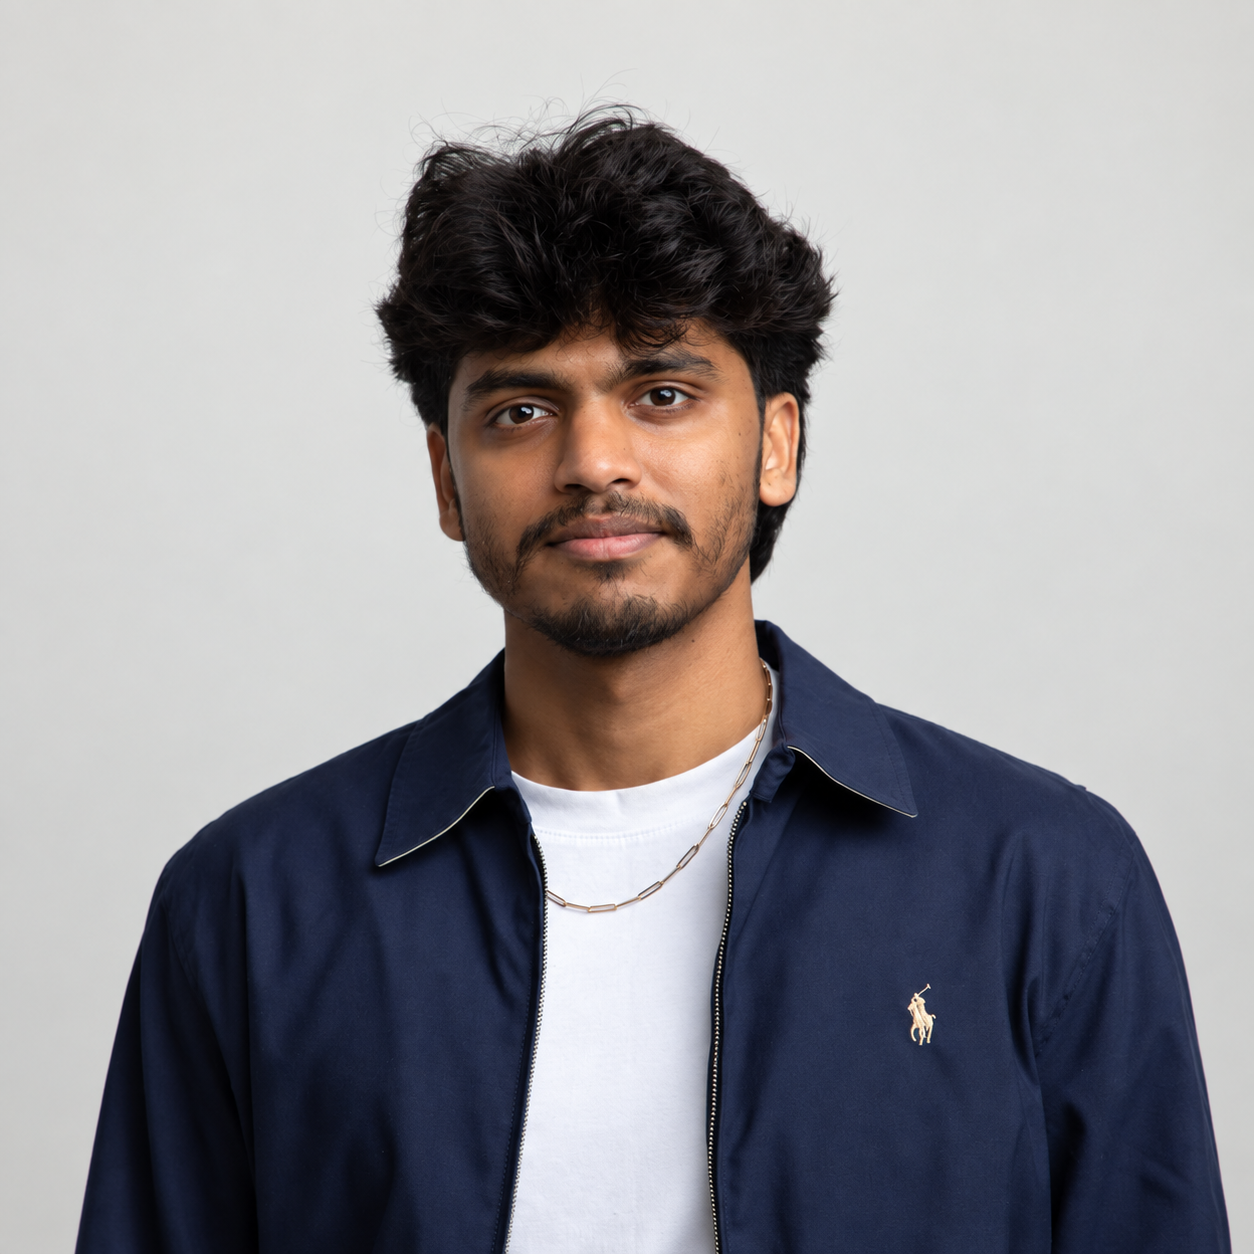
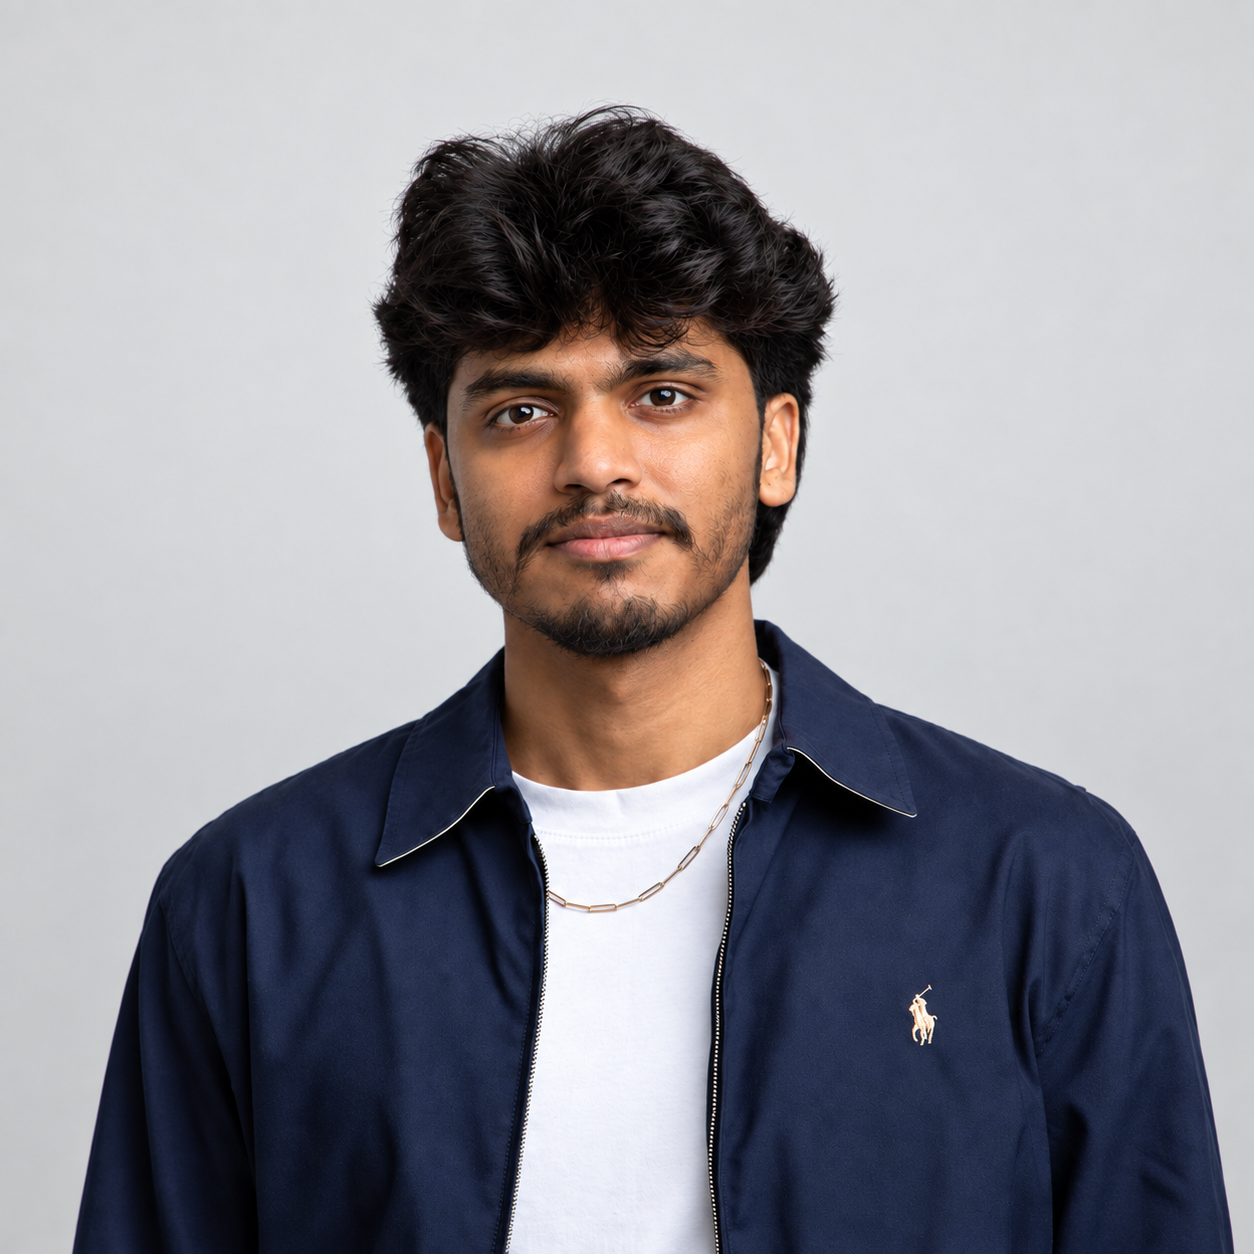
Refine intro, navigation, and studio portrait

diff --git a/index.html b/index.html
@@ -1,7 +1,7 @@
 <!doctype html>
 <html lang="en"><head><meta charset="utf-8"><meta name="viewport" content="width=device-width, initial-scale=1"><meta name="description" content="Manvith Reddy Dalli’s portfolio: enterprise automation, applied AI, data engineering, and software projects. Explore project summaries, technologies, and GitHub repositories."><meta name="theme-color" content="#111713"><title>Manvith Reddy Dalli | Automation, AI & Data Engineering</title><link rel="icon" type="image/svg+xml" href="favicon.svg"><link rel="stylesheet" href="style.css"></head>
-<body><a class="skip" href="#projects">Skip to projects</a><div class="wrap"><header><a class="brand" href="#" aria-label="Manvith home">MD<span>.</span></a><nav aria-label="Main navigation"><a href="#citizens">Citizens</a><a href="#projects">Projects</a><a href="#about">About</a><a href="#contact">Contact</a></nav></header>
-<main><section class="hero" aria-labelledby="name"><div><p class="eyebrow">Automation, AI & Data Engineering · Boston, MA</p><h1 id="name">Manvith<br><span>Reddy Dalli.</span></h1><p class="intro">I build data pipelines, explore machine learning, and turn research into working software.</p><a class="button" href="#projects">Explore my projects <span aria-hidden="true">↓</span></a></div><div class="hero-side"><img class="portrait" src="portrait.png" width="1254" height="1254" alt="Professional portrait of Manvith Reddy Dalli"><p>My work spans enterprise automation, data engineering, and applied AI—from streamlining banking workflows at Citizens to building options risk analytics and generative models.</p><div class="links"><a href="https://github.com/Manvith-d" target="_blank" rel="noopener noreferrer">GitHub ↗</a><a href="https://www.linkedin.com/in/manvith-reddy-dalli-38a06a257" target="_blank" rel="noopener noreferrer">LinkedIn ↗</a><a href="resume.pdf" target="_blank" rel="noopener">Résumé ↗</a></div></div></section>
+<body><a class="skip" href="#projects">Skip to projects</a><div class="wrap"><header><a class="brand" href="#" aria-label="Manvith home">MD<span>.</span></a><nav aria-label="Main navigation"><a href="#projects">Projects</a><a href="#about">About</a><a href="#contact">Contact</a></nav></header>
+<main><section class="hero" aria-labelledby="name"><div><p class="eyebrow">Automation, AI & Data Engineering · Boston, MA</p><h1 id="name">Manvith<br><span>Reddy Dalli.</span></h1><p class="intro">Northeastern University — M.S. in Information Systems</p><a class="button" href="#projects">Explore my projects <span aria-hidden="true">↓</span></a></div><div class="hero-side"><img class="portrait" src="portrait.png" width="1254" height="1254" alt="Professional portrait of Manvith Reddy Dalli"><p>My work spans enterprise automation, data engineering, and applied AI—from streamlining banking workflows at Citizens to building options risk analytics and generative models.</p><div class="links"><a href="https://github.com/Manvith-d" target="_blank" rel="noopener noreferrer">GitHub ↗</a><a href="https://www.linkedin.com/in/manvith-reddy-dalli-38a06a257" target="_blank" rel="noopener noreferrer">LinkedIn ↗</a><a href="resume.pdf" target="_blank" rel="noopener">Résumé ↗</a></div></div></section>
 <div class="strip"><span><strong>Northeastern University</strong> · M.S. Information Systems</span><span>Boston, Massachusetts</span></div>
 <section id="citizens" class="citizens" aria-labelledby="citizens-title"><div class="section-head"><div><p class="eyebrow">Citizens Bank · 2026 Co-op</p><h2 id="citizens-title">Banking workflows.<br>Real business value.</h2></div><p>Automation Engineer<br>SOEA Automation Development Team</p></div><div class="citizens-impact"><div><span class="impact-number">1,000+</span><h3>hours of projected annual savings</h3><p>Across CMOD Reject Reporting and Private Banking QC. Hands-on work with UiPath, APIs, mainframe systems, and enterprise reporting.</p></div><a class="badge-card" href="https://credsverse.com/credentials/cc9ca96d-f007-4b6f-b387-9153b923905f?preview=1" target="_blank" rel="noopener noreferrer"><img src="citizens-badge.png" width="1200" height="630" alt="Citizens Intelligent Process Automation Process Innovator Challenge badge, 2026"><span>Process Innovator Challenge Badge ↗</span><small>Citizens Intelligent Process Automation · 2026</small></a></div><div class="citizens-grid"><article class="citizens-card"><p class="meta">309 hours / year projected</p><h3>CMOD Reject Reporting</h3><p class="description">Delivered an end-to-end automation that reads daily reports, reconciles rejected-item counts with a shared workbook, and flags mismatches for review. Supported production deployment and hypercare.</p><p class="citizens-tech">UiPath · CMOD · Excel · DataTables · REFramework</p></article><article class="citizens-card"><p class="meta">700 hours / year projected</p><h3>Private Banking QC</h3><p class="description">Contributed to a weekly quality-control workflow that consolidates report and API data, validates activity, and produces a structured Excel workbook for review and archiving.</p><p class="citizens-tech">UiPath · APIs · DataTables · Excel</p></article><article class="citizens-card"><p class="meta">Prototype</p><h3>Cleanup Automation</h3><p class="description">Built a cleanup prototype to support reliable environment maintenance and improve storage efficiency.</p><p class="citizens-tech">UiPath · Workflow automation</p></article><article class="citizens-card"><p class="meta">Solution design</p><h3>Exception Screenshot Governance</h3><p class="description">Authored a solution design for checking screenshot-storage configuration across automation projects and reporting missing or inconsistent settings for remediation.</p><p class="citizens-tech">UiPath · Configuration validation · Excel · Confluence</p></article></div></section>
 <section id="projects" aria-labelledby="work-title"><div class="section-head"><h2 id="work-title">Projects &amp; research<span style="color:var(--accent)">.</span></h2></div><div class="features">

diff --git a/README.md b/README.md
@@ -2,7 +2,7 @@
 
 ### Enterprise automation · Data engineering · Applied AI
 
-I build data pipelines, explore machine learning, and turn research into working software. My work spans enterprise automation, data engineering, and applied AI—from streamlining banking workflows at Citizens to building options risk analytics and generative models.
+Northeastern University — M.S. in Information Systems. My work spans enterprise automation, data engineering, and applied AI—from streamlining banking workflows at Citizens to building options risk analytics and generative models.
 
 **[Explore the portfolio →](https://manvith-reddy-dalli.roo7001.chatgpt.site/)** · [LinkedIn](https://www.linkedin.com/in/manvith-reddy-dalli-38a06a257) · [Résumé](resume.pdf)
 
